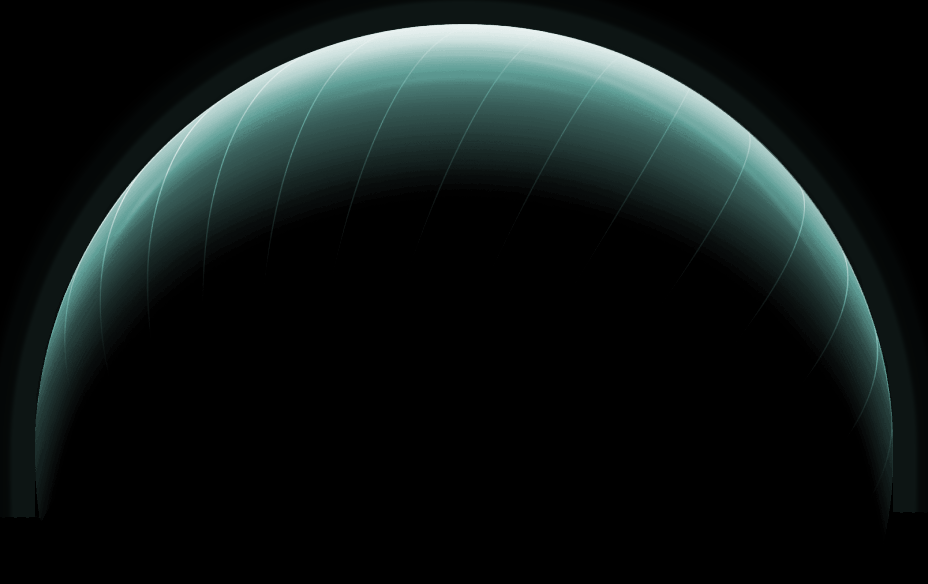
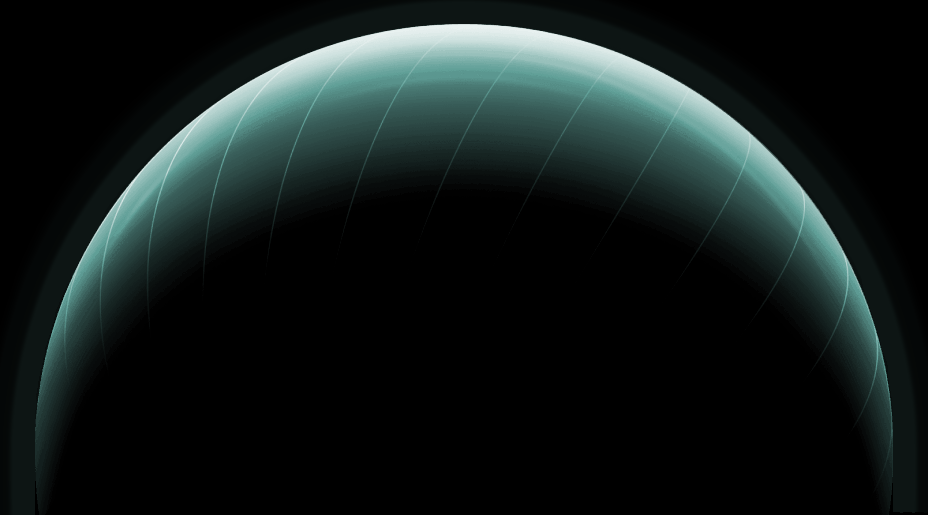
new changes

Changed region(s): [[0.0312, 0.0311, 0.9688, 0.9631], [0.5938, 0.2485, 0.625, 0.3107], [0.375, 0.2796, 0.4062, 0.3417]]

diff --git a/src/app/components/Atoms/ButtonMain/ButtonMain.module.scss b/src/app/components/Atoms/ButtonMain/ButtonMain.module.scss
@@ -1,7 +1,7 @@
 .btn {
-  border: 1px solid rgba(111, 65, 210) ;
-  background-color: rgba(111, 65, 210);
-  color: white;
+  border: 1px solid var(--second-color) ;
+  background-color: var(--second-color);
+  color: #ffffff;
   border-radius: 8px;
   padding: 0.8rem 2.1rem;
   font-size: var(--font-size-extra-small);
@@ -14,8 +14,9 @@
 }
 
 .btn:hover {
-  background-color: rgba(111, 65, 210, 0.35);
-  box-shadow: inset 0 -10px 20px rgba(111, 65, 210, 0.5);
+  background-color: rgb(77, 197, 172,0.35);
+  box-shadow: inset 0 -10px 20px rgba(77, 197, 172, 0.5);
+  
 }
 
 

diff --git a/src/app/components/Info/Info.scss b/src/app/components/Info/Info.scss
@@ -1,5 +1,5 @@
 .BG {
-  background-image: url("/esfera-form.png");
+  background-image: url("/esfera-form-verde.png");
   background-size: contain;
   background-position: center;
   background-repeat: no-repeat;
